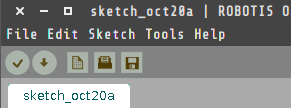
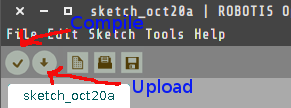
dynamixel updated

Changed region(s): [[0.1546, 0.6111, 0.6804, 0.8889], [0.0619, 0.1389, 0.4948, 0.4444]]

diff --git a/README.md b/README.md
@@ -59,7 +59,7 @@ int pos_threshold = 57; //~5°
 ```
 
 
-## How to compile and upload the code in the Board
+## How to compile and upload the code
 
 First at all, clone the *dynamixel* branch of this repository and execute the IDE,
 
@@ -90,6 +90,6 @@ after this, you have to look up for the file you want to compile, in our case th
 Fig. 3: **Compile** and **Upload** buttons.
 </div>
 
-That's it!, now you are be able to drive the motor using the two pushing Button shown on Fig. 1.
+That's it!, now you should be able to drive the motor using the two pushing Buttons shown on Fig. 1.
 
 ---
